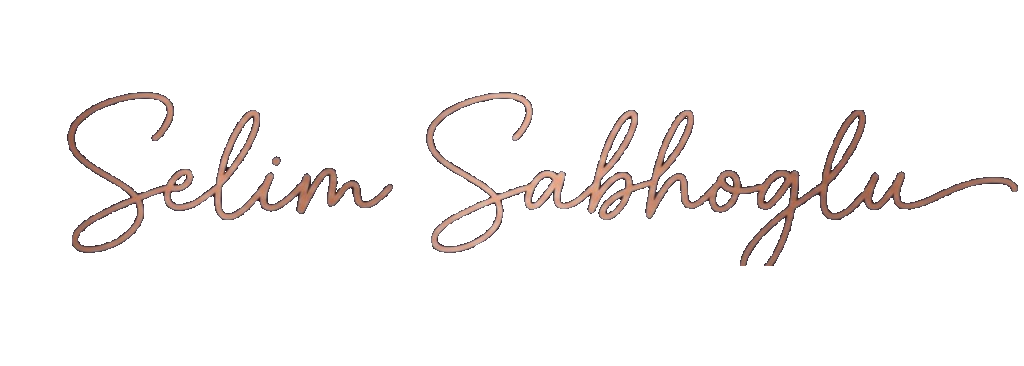
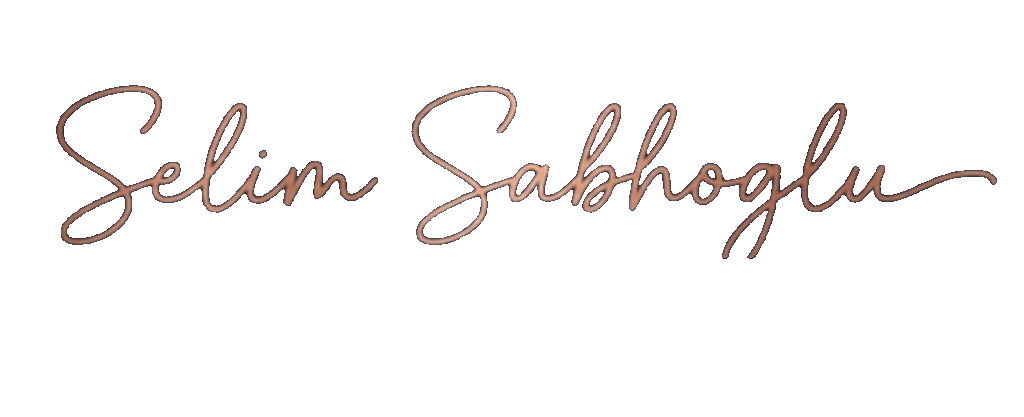
Fix cropped g in contact signature from reference source.
Rebuild the signature PNG from the approved reference with transparent copper-only ink and extra bottom padding.

Changed region(s): [[0.0312, 0.1803, 1.0, 0.7213], [0.9375, 0.4809, 1.0, 0.5109], [0.125, 0.3607, 0.1562, 0.3907]]

diff --git a/kontakt.html b/kontakt.html
@@ -162,7 +162,7 @@
                     <li>WhatsApp: <a href="schaden-melden.html">Schaden melden</a></li>
                     <li>Pohlweg 76, 33098 Paderborn</li>
                   </ul>
-                  <p class="guide-kontakt__signature"><img class="guide-kontakt__signature-img" src="assets/contact/selim-sabahoglu-signature.png?v=8" alt="Unterschrift Selim Sabahoglu" width="420" height="150" loading="lazy" decoding="async" /></p>
+                  <p class="guide-kontakt__signature"><img class="guide-kontakt__signature-img" src="assets/contact/selim-sabahoglu-signature.png?v=9" alt="Unterschrift Selim Sabahoglu" width="420" height="171" loading="lazy" decoding="async" /></p>
                   <a class="guide-kontakt__cta" href="mailto:sesa-svb@outlook.de">Kontakt aufnehmen →</a>
                 </div>
               </div>

diff --git a/build_site.py b/build_site.py
@@ -13,7 +13,7 @@ ABOUT_HERO = "assets/about/about-hero.jpg?v=1"
 ABOUT_PORTRAIT = "assets/portrait-placeholder.png?v=1"
 CONTACT_HERO = "assets/hero-inspection.png"
 BLOG_HERO = "assets/blog/blog-hero.jpg?v=2"
-SIGNATURE_IMAGE = "assets/contact/selim-sabahoglu-signature.png?v=8"
+SIGNATURE_IMAGE = "assets/contact/selim-sabahoglu-signature.png?v=9"
 KONTAKT_SIGNATURE_STYLE = """
     <style>
       main:has(.guide-kontakt) {
@@ -1272,7 +1272,7 @@ def kontakt_page_body() -> str:
                     <li>WhatsApp: <a href="schaden-melden.html">Schaden melden</a></li>
                     <li>{ADDRESS}</li>
                   </ul>
-                  <p class="guide-kontakt__signature"><img class="guide-kontakt__signature-img" src="{SIGNATURE_IMAGE}" alt="Unterschrift {OWNER}" width="420" height="150" loading="lazy" decoding="async" /></p>
+                  <p class="guide-kontakt__signature"><img class="guide-kontakt__signature-img" src="{SIGNATURE_IMAGE}" alt="Unterschrift {OWNER}" width="420" height="171" loading="lazy" decoding="async" /></p>
                   <a class="guide-kontakt__cta" href="mailto:{EMAIL}">Kontakt aufnehmen →</a>
                 </div>
               </div>
